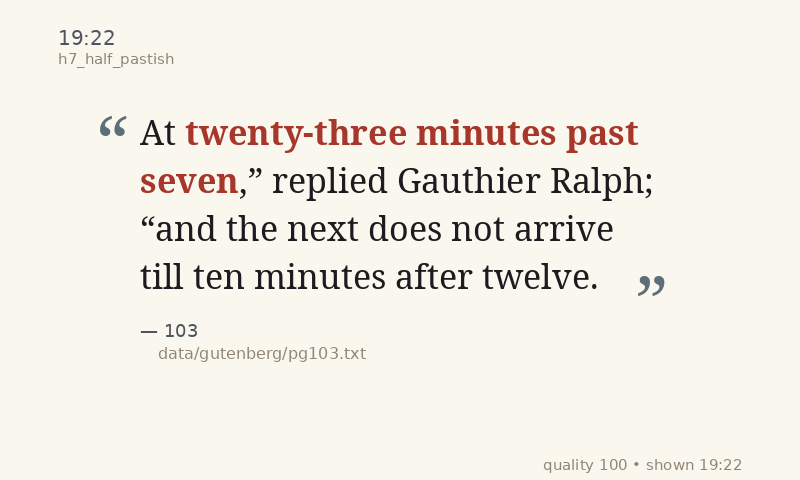
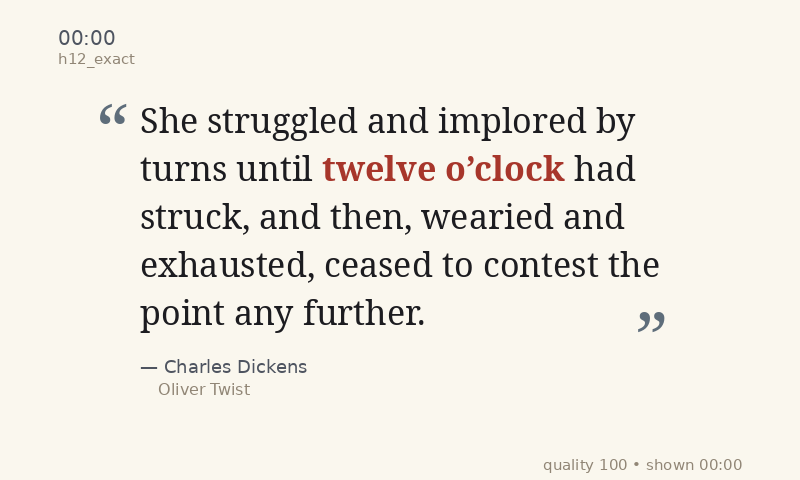
Use attributed quote dataset by default

diff --git a/pick_quote.py b/pick_quote.py
@@ -14,8 +14,8 @@ def parse_args() -> argparse.Namespace:
     parser = argparse.ArgumentParser(description="Pick the best LitClock quote for a time.")
     parser.add_argument(
         "--input",
-        default="output/candidates-quality.jsonl",
-        help="Quality-scored candidate JSONL file.",
+        default="output/candidates-attributed.jsonl",
+        help="Attributed and quality-scored candidate JSONL file.",
     )
     parser.add_argument(
         "--time",
